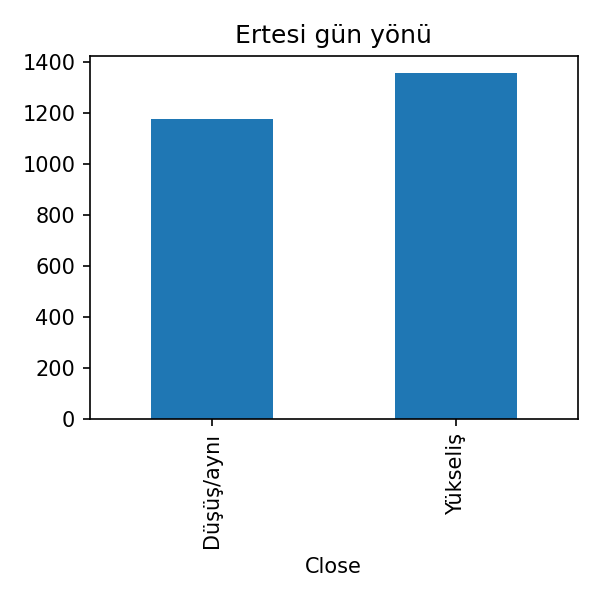
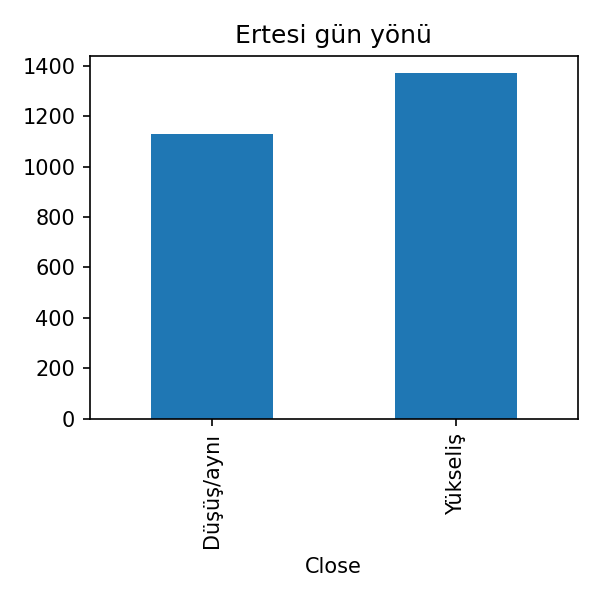
EDA: yükseliş günü oranını boş (tatil) günleri eleyerek hesapla
Önceden NaN kapanışlar yön hesabına giriyordu (0,5353). Düzeltilmiş
değer 0,5486 (1371/2499); bist_yon.png ve bist_ozet.csv yenilendi.

diff --git a/src/eda.py b/src/eda.py
@@ -25,7 +25,8 @@ def bist_eda(yol=KOK / "data" / "raw" / "xu100.csv") -> pd.DataFrame:
         "Volume==0 gün": int((df.get("Volume", pd.Series(dtype=float)) == 0).sum()),
     }
     r = df["Close"].pct_change(fill_method=None)
-    yon = (df["Close"].shift(-1) > df["Close"]).iloc[:-1]
+    kapanis = df["Close"].dropna()  # tatil/boş günler yön hesabına girmesin
+    yon = (kapanis.shift(-1) > kapanis).iloc[:-1]
     ozet["yükseliş günü oranı"] = round(float(yon.mean()), 4)
     ozet["en büyük 5 mutlak getiri"] = r.abs().nlargest(5).round(4).to_dict()
     ozet["getiri ort./std"] = (round(float(r.mean()), 5), round(float(r.std()), 5))
